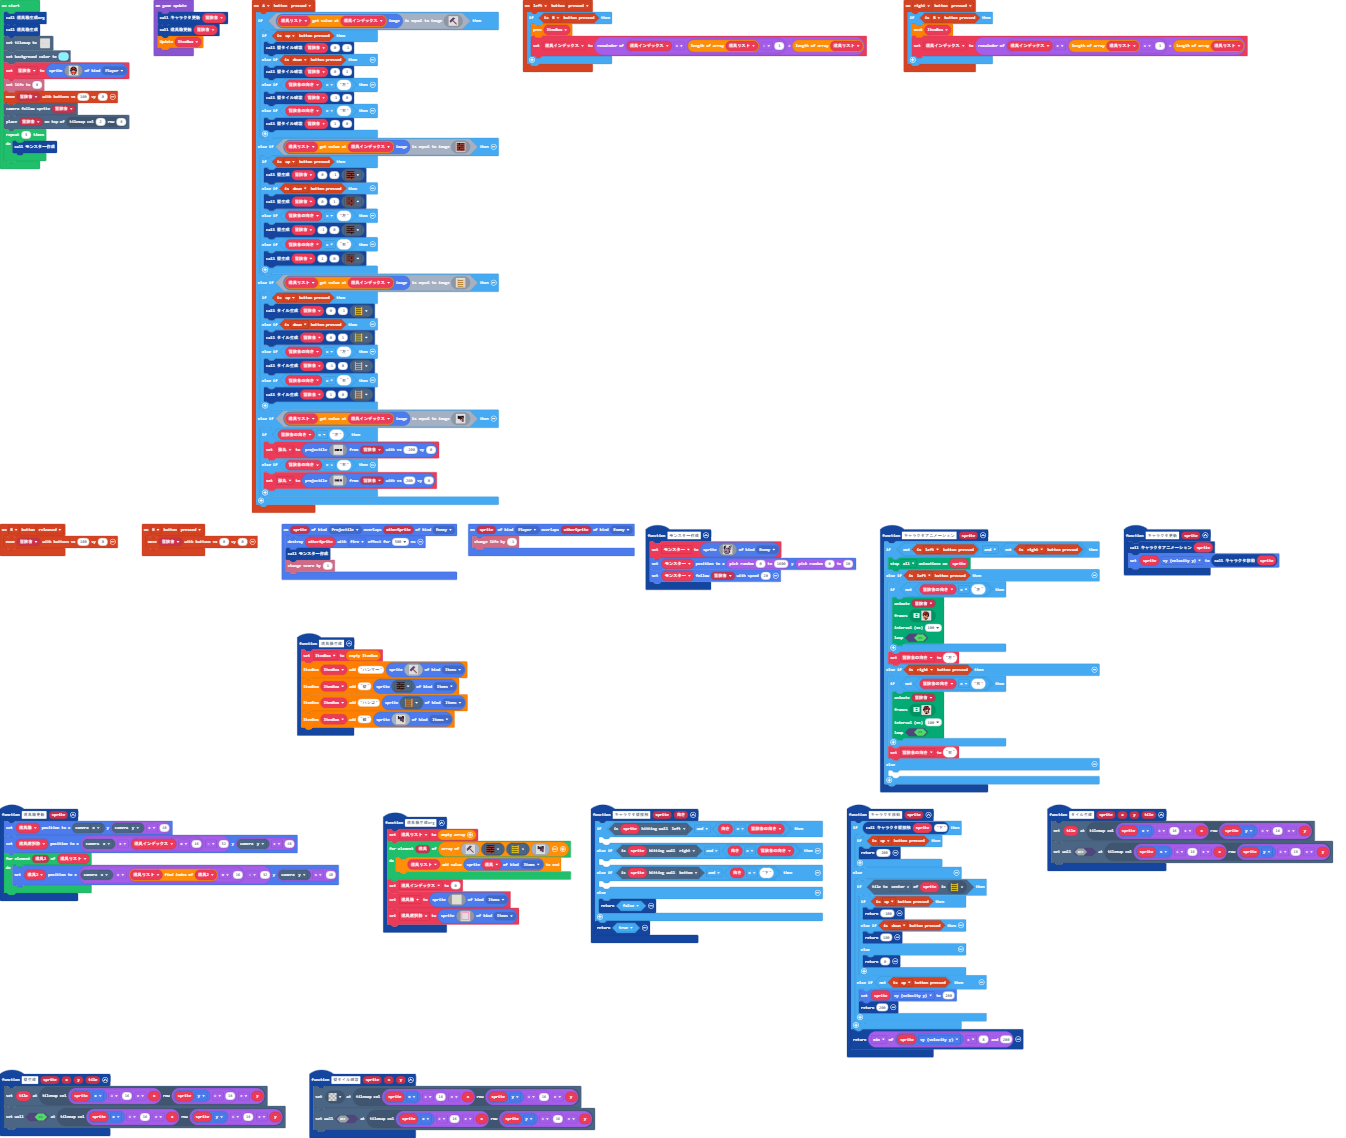
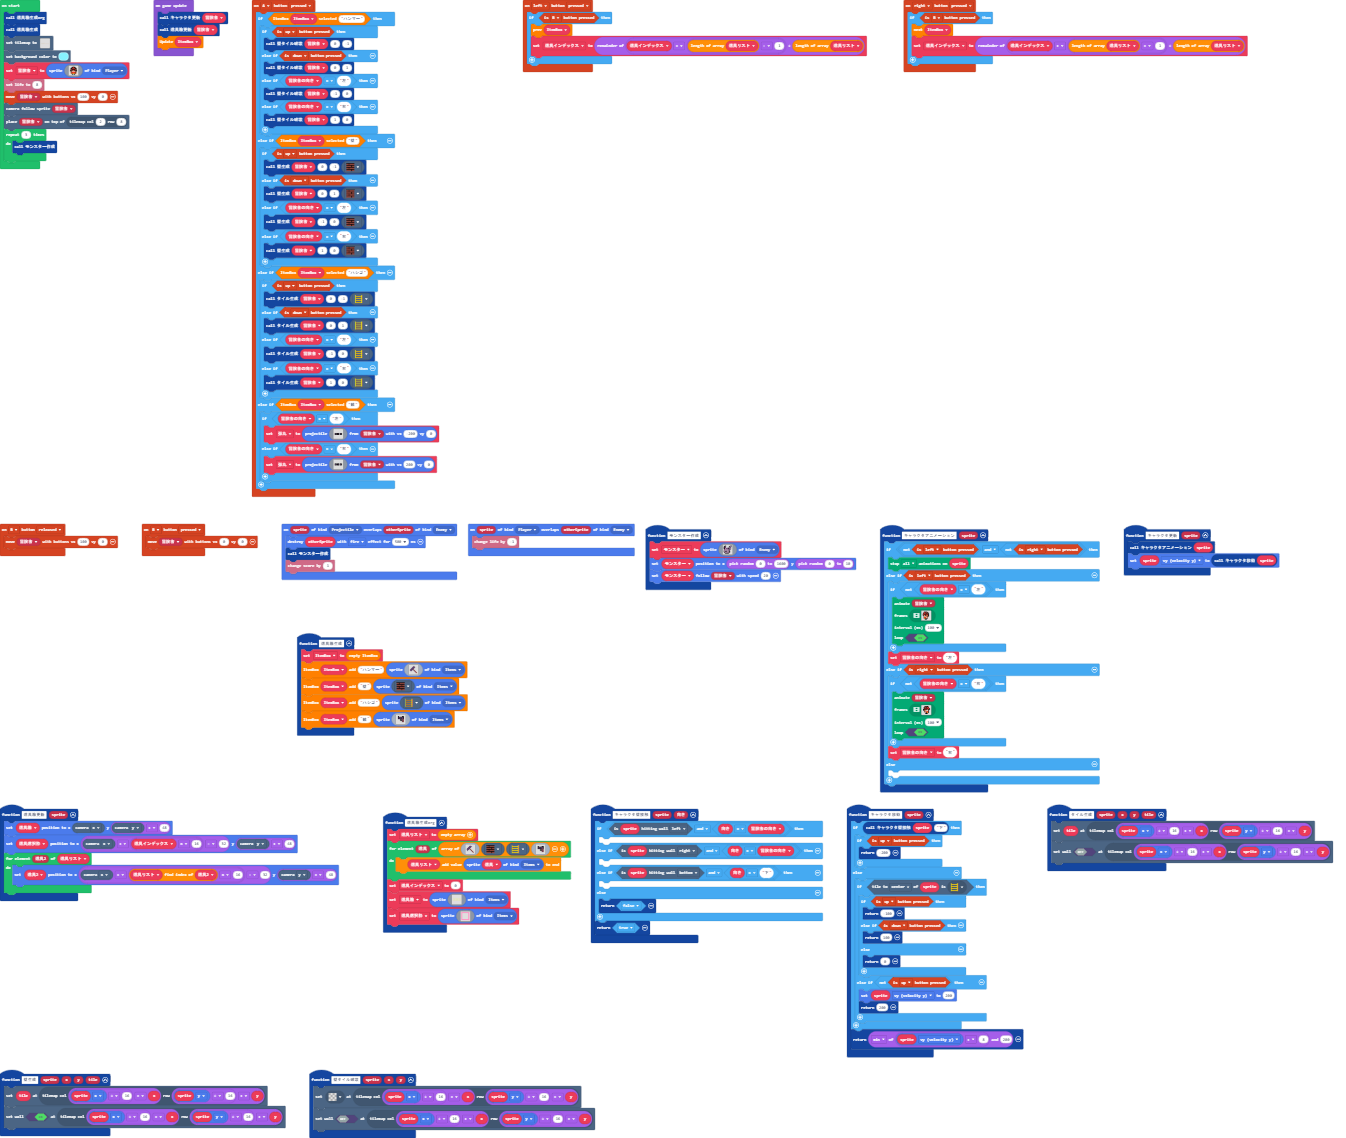
Update main.blocks, main.ts

Changed region(s): [[0.1872, 0.0, 0.3744, 0.4613]]

diff --git a/main.ts b/main.ts
@@ -31,7 +31,7 @@ controller.B.onEvent(ControllerButtonEvent.Pressed, function () {
     controller.moveSprite(冒険者, 0, 0)
 })
 controller.A.onEvent(ControllerButtonEvent.Pressed, function () {
-    if (道具リスト[道具インデックス].image.equals(assets.image`ハンマー`)) {
+    if (ItemBox2.isSelected("ハンマー")) {
         if (controller.up.isPressed()) {
             壁タイル破壊(冒険者, 0, -1)
         } else if (controller.down.isPressed()) {
@@ -41,7 +41,7 @@ controller.A.onEvent(ControllerButtonEvent.Pressed, function () {
         } else if (冒険者の向き == "右") {
             壁タイル破壊(冒険者, 1, 0)
         }
-    } else if (道具リスト[道具インデックス].image.equals(assets.tile`壁タイル`)) {
+    } else if (ItemBox2.isSelected("壁")) {
         if (controller.up.isPressed()) {
             壁生成(冒険者, 0, -1, assets.tile`壁タイル`)
         } else if (controller.down.isPressed()) {
@@ -51,7 +51,7 @@ controller.A.onEvent(ControllerButtonEvent.Pressed, function () {
         } else if (冒険者の向き == "右") {
             壁生成(冒険者, 1, 0, assets.tile`壁タイル`)
         }
-    } else if (道具リスト[道具インデックス].image.equals(assets.tile`ハシゴタイル`)) {
+    } else if (ItemBox2.isSelected("ハシゴ")) {
         if (controller.up.isPressed()) {
             タイル生成(冒険者, 0, -1, assets.tile`ハシゴタイル`)
         } else if (controller.down.isPressed()) {
@@ -61,7 +61,7 @@ controller.A.onEvent(ControllerButtonEvent.Pressed, function () {
         } else if (冒険者の向き == "右") {
             タイル生成(冒険者, 1, 0, assets.tile`ハシゴタイル`)
         }
-    } else if (道具リスト[道具インデックス].image.equals(assets.image`ハンドガン`)) {
+    } else if (ItemBox2.isSelected("銃")) {
         if (冒険者の向き == "左") {
             弾丸 = sprites.createProjectileFromSprite(assets.image`弾丸`, 冒険者, -200, 0)
         } else if (冒険者の向き == "右") {
@@ -359,11 +359,11 @@ sprites.onOverlap(SpriteKind.Player, SpriteKind.Enemy, function (sprite, otherSp
 })
 let 道具選択枠: Sprite = null
 let 道具箱: Sprite = null
-let ItemBox2: ItemBox = null
+let 道具リスト: Sprite[] = []
+let 道具インデックス = 0
 let 弾丸: Sprite = null
 let 冒険者の向き = ""
-let 道具インデックス = 0
-let 道具リスト: Sprite[] = []
+let ItemBox2: ItemBox = null
 let モンスター: Sprite = null
 let 冒険者: Sprite = null
 道具箱生成org()
